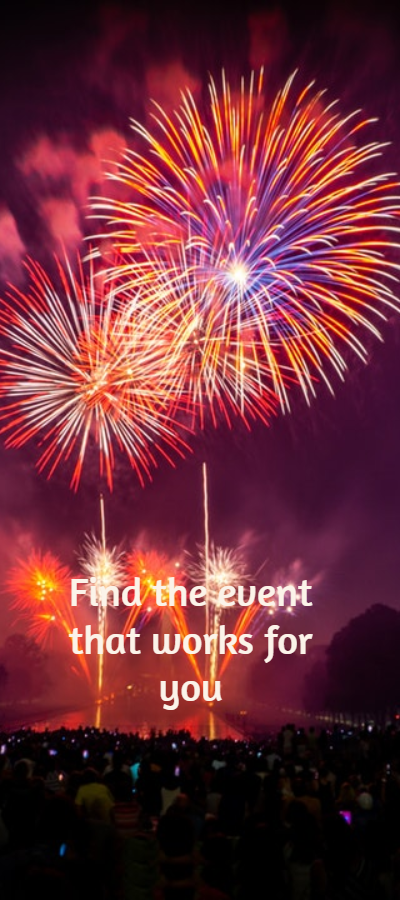
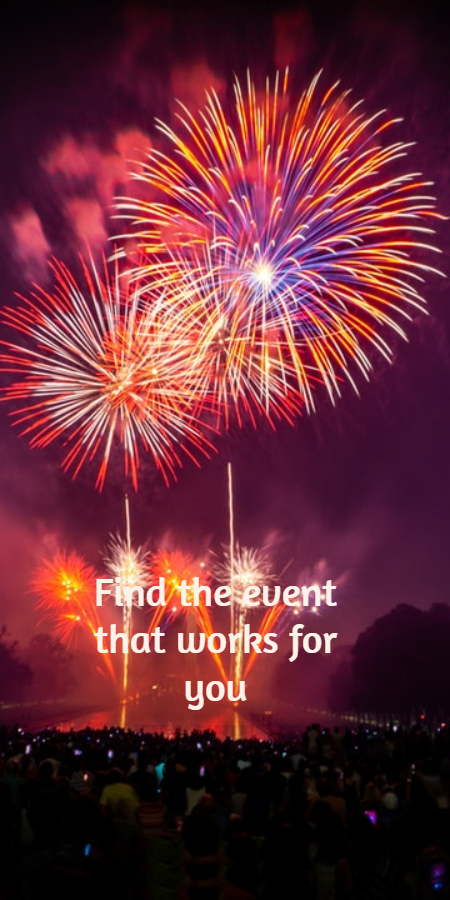
home-img

diff --git a/frontend/src/styles/components/_EventeraQuickstart.scss b/frontend/src/styles/components/_EventeraQuickstart.scss
@@ -9,7 +9,8 @@
     background: $clr1;
     opacity: 0.9;
     position: absolute;
-    top: calc(100vh - 550px);
+    // top: calc(100vh - 550px);
+    top: 114px;
     left: rem(65px);
     & h1 {
        font-size: 25px;
@@ -21,8 +22,8 @@
        }
     }
    @media screen and (max-width: 600px) {
-    width: rem(270px);
-    height: rem(300px);
+    width: rem(254px);
+    height: rem(220px);
    }
 }
 
@@ -48,7 +49,8 @@
     border: 1px solid $clr2;
     border-radius: 10px;
     @media screen and (max-width: 600px) {
-        height: 40px;
+        height: 30px;
+        font-size: 12px;
        }
 }
 
@@ -58,6 +60,9 @@
     height: rem(45px);
     margin-left: 65%;
     @media screen and (max-width: 600px) {
-        margin-left: 59%;
+        margin-left: 68%;
+        width: rem(75px);
+        height: rem(35px);
+        font-size: 12px;
     }
 }
